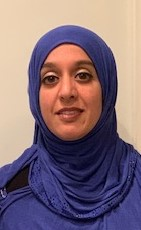
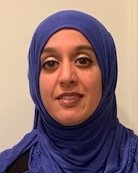
Fix: Adjusted my photo

diff --git a/docs/about.html b/docs/about.html
@@ -94,7 +94,7 @@
 					</div>
 					<div class="col-sm-5 col-md-6">
 					  <div class="card" style="width: 18rem;">
-						<img src="https://afa48.github.io/IS601HowInternetWorks/myPhoto.jpg" height="280" class="card-img-top" alt="AA">
+						<img src="Images/myPhoto.jpg" height="380" class="card-img-top" alt="AA">
 						<div class="card-body">
 						  <h5 class="card-title">Azra Fatima Awan</h5>
 						  <p class="card-text">Student at New Jersey Institute of Technology (NJIT). Currently works for the Department of Labor as an Investigator in the Unemployment Fraud Department. Pursuing a degree  in Information Systems with a concentration in Cyber Security.</p>
